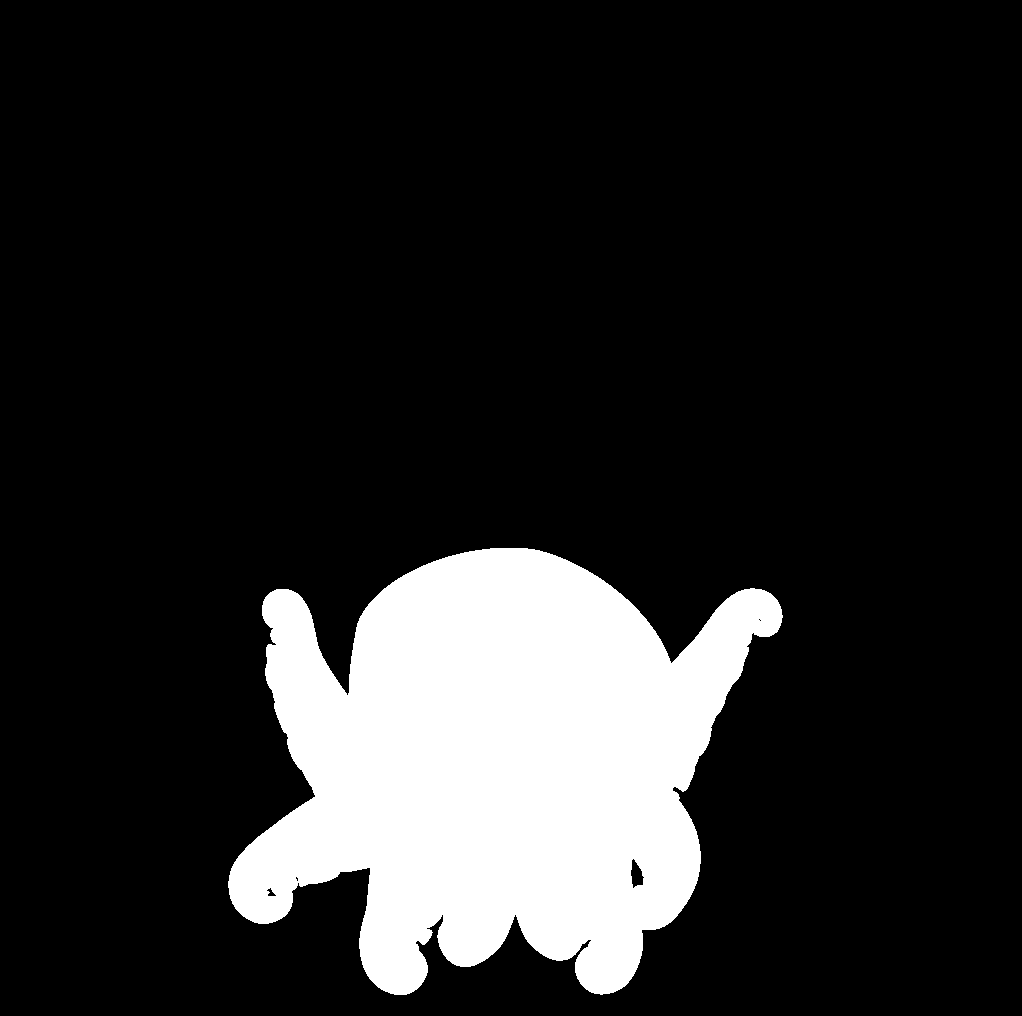
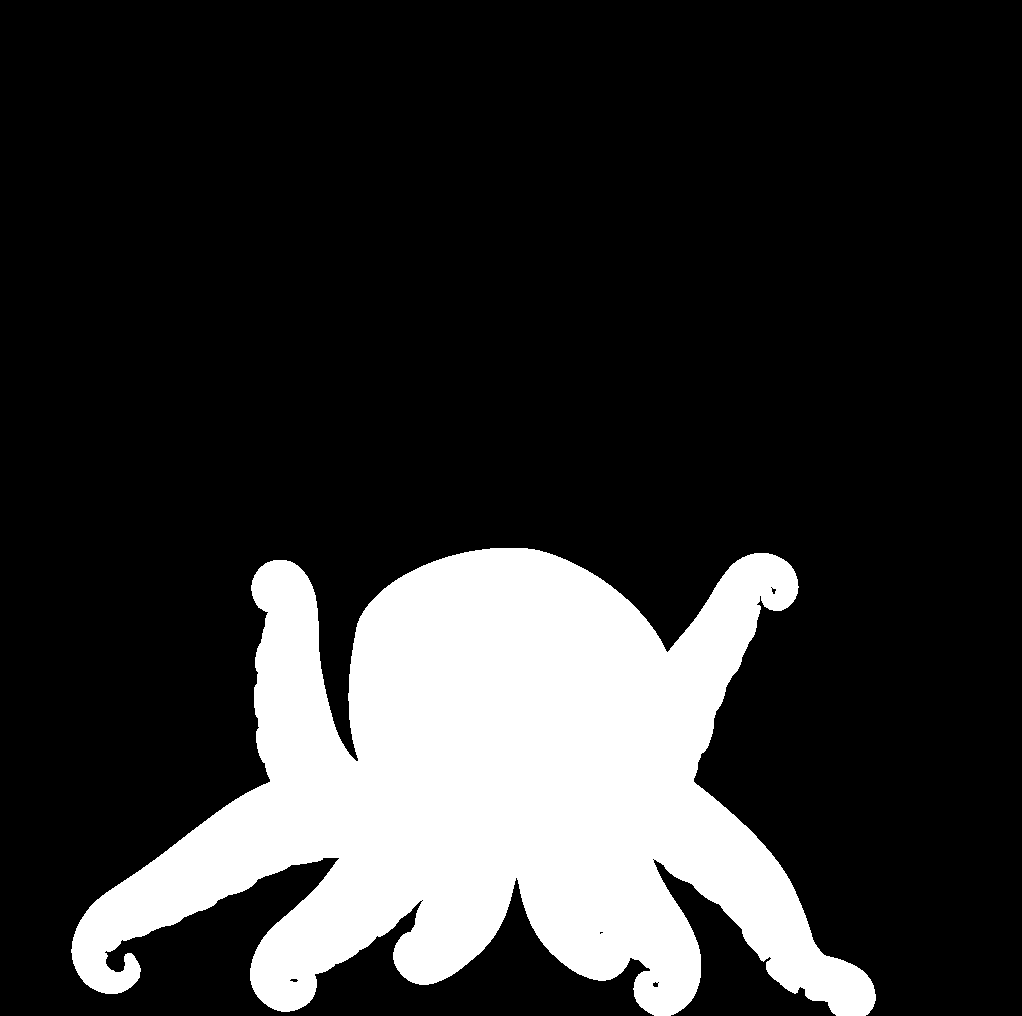
fix(octoverse): overview arms spread like P3
Re-trace the How It Works arms: the lower six fan out as P3's do
(span 4.02, T2 under Aether, T7 under the gold card's bottom edge),
and T1/T8 rise over a unit and curl outward. The presenting face is
the open smile (mouthOpen 0.85, mouthCurve 0.9). Intro untouched.

Changed region(s): [[0.0607, 0.5492, 0.8796, 1.0], [0.637, 0.5187, 0.7886, 0.6713], [0.6977, 0.6407, 0.728, 0.7018]]

diff --git a/src/worlds/octoverse/poses.ts b/src/worlds/octoverse/poses.ts
@@ -100,25 +100,28 @@ const OVERVIEW_TILT = -0.19;
  * Each arm's centre line as the stage camera sees it, in stage units, from where it leaves the body
  * to its tip (the hidden root is the intro's, so nothing moves under the mantle as the stage changes).
  * As painted:
- * - T1, T8: rise from behind the head, outward beside it, between the cards: T1 under Veyra and
- *   right of Aether, T8 under Nox and above "Your Octopus", their tips curling up near y -0.5
- *   (spec 2.2). T8's curl is lifted a little above P3's (which sits on the gold card's corner) and
- *   T1's held 0.1 in from P3's, so no tip lies on a card (the cards are drawn over the stage).
- * - T2: out low to the left, under Aether, curling down at x -1.25.
- * - T3, T4 / T5, T6: hang down the front in two pairs, curling toward each other near the floor.
- * - T7: down beside the gold card's left edge, curling under at y -2.0 (P3 runs it behind the card).
+ * - T1, T8: leave the body low and wide, then rise outward beside the head, between the cards: T1
+ *   under Veyra and right of Aether, T8 under Nox and above "Your Octopus". Each rises more than a
+ *   unit and curls outward at the top, near y -0.4 (spec 2.2: "near y -0.5"). T8's curl sits above
+ *   P3's (which is on the gold card's corner) and T1's stays right of Aether's edge, so no tip lies
+ *   on a card (the cards are drawn over the stage).
+ * - The lower six fan out wide under the face and the cards (fix round 1, the controller's look
+ *   check: P3's lower arms fill the panel's lower half; tucked under the head they read small):
+ *   T2 sweeps out left under Aether's card to x -2.1, curling at the floor; T3 down-left to x -1.2;
+ *   T4 and T5 down the front, curling outward; T6 down-right to x 0.8; T7 out right, under the gold
+ *   card (hidden behind it as P3's is) and along its bottom edge, curling at x 1.7 below it.
  * Every tip curls the way it does in the intro (left side counter-clockwise for T1 to T3, the centre
  * pair inward, the right side mirrored), so the blend from the intro never turns one inside out.
  */
 export const OVERVIEW_TRACED: Record<ArmId, Point2[]> = {
-  T1: [[-0.62, -1.4], [-0.78, -1.31], [-0.9, -1.18], [-0.98, -1.03], [-1.03, -0.88], [-1.06, -0.74], [-1.07, -0.63], [-1.08, -0.55], [-1.11, -0.49], [-1.16, -0.48], [-1.19, -0.53], [-1.17, -0.58], [-1.13, -0.57]],
-  T2: [[-0.5, -1.5], [-0.7, -1.56], [-0.9, -1.63], [-1.08, -1.69], [-1.22, -1.76], [-1.3, -1.85], [-1.3, -1.94], [-1.24, -2.0], [-1.16, -1.99], [-1.13, -1.93], [-1.17, -1.9]],
-  T3: [[-0.4, -1.62], [-0.5, -1.82], [-0.58, -2.02], [-0.63, -2.18], [-0.61, -2.3], [-0.54, -2.35], [-0.48, -2.31], [-0.49, -2.25], [-0.53, -2.26]],
-  T4: [[-0.14, -1.62], [-0.16, -1.8], [-0.16, -1.98], [-0.17, -2.12], [-0.23, -2.18], [-0.28, -2.13], [-0.26, -2.07], [-0.22, -2.09]],
-  T5: [[0.18, -1.62], [0.19, -1.8], [0.19, -1.98], [0.2, -2.12], [0.26, -2.18], [0.31, -2.13], [0.29, -2.07], [0.25, -2.09]],
-  T6: [[0.38, -1.62], [0.45, -1.85], [0.5, -2.05], [0.53, -2.2], [0.5, -2.32], [0.43, -2.35], [0.38, -2.3], [0.4, -2.24], [0.45, -2.25]],
-  T7: [[0.55, -1.42], [0.67, -1.52], [0.75, -1.65], [0.78, -1.8], [0.76, -1.93], [0.71, -2.02], [0.64, -2.04], [0.61, -1.98], [0.64, -1.93], [0.69, -1.95]],
-  T8: [[0.6, -1.38], [0.72, -1.24], [0.82, -1.1], [0.9, -0.97], [0.97, -0.85], [1.03, -0.74], [1.08, -0.63], [1.13, -0.54], [1.2, -0.48], [1.27, -0.48], [1.31, -0.53], [1.3, -0.59], [1.25, -0.6], [1.22, -0.56]],
+  T1: [[-0.55, -1.5], [-0.78, -1.48], [-0.95, -1.38], [-1.06, -1.22], [-1.1, -1.05], [-1.1, -0.88], [-1.08, -0.72], [-1.06, -0.58], [-1.07, -0.45], [-1.12, -0.37], [-1.19, -0.37], [-1.23, -0.43], [-1.21, -0.5], [-1.16, -0.5], [-1.15, -0.45]],
+  T2: [[-0.55, -1.45], [-0.82, -1.5], [-1.1, -1.58], [-1.38, -1.7], [-1.65, -1.82], [-1.88, -1.95], [-2.05, -2.08], [-2.12, -2.22], [-2.08, -2.34], [-1.98, -2.38], [-1.9, -2.33], [-1.92, -2.26]],
+  T3: [[-0.42, -1.6], [-0.6, -1.78], [-0.8, -1.95], [-1.0, -2.1], [-1.15, -2.24], [-1.2, -2.36], [-1.14, -2.44], [-1.05, -2.43], [-1.02, -2.36], [-1.07, -2.33]],
+  T4: [[-0.15, -1.62], [-0.19, -1.82], [-0.24, -2.0], [-0.3, -2.14], [-0.37, -2.24], [-0.45, -2.28], [-0.51, -2.24], [-0.5, -2.17], [-0.45, -2.16]],
+  T5: [[0.18, -1.62], [0.22, -1.82], [0.27, -2.0], [0.33, -2.14], [0.4, -2.24], [0.48, -2.28], [0.54, -2.24], [0.53, -2.17], [0.48, -2.16]],
+  T6: [[0.42, -1.62], [0.55, -1.8], [0.67, -1.98], [0.77, -2.14], [0.83, -2.28], [0.83, -2.4], [0.76, -2.47], [0.68, -2.44], [0.67, -2.37], [0.72, -2.35]],
+  T7: [[0.6, -1.42], [0.85, -1.52], [1.05, -1.68], [1.2, -1.88], [1.3, -2.08], [1.39, -2.24], [1.5, -2.32], [1.62, -2.34], [1.71, -2.38], [1.74, -2.45], [1.69, -2.5], [1.62, -2.48], [1.61, -2.42], [1.66, -2.41]],
+  T8: [[0.6, -1.38], [0.72, -1.22], [0.82, -1.06], [0.9, -0.92], [0.98, -0.79], [1.05, -0.66], [1.1, -0.53], [1.14, -0.42], [1.2, -0.33], [1.28, -0.3], [1.36, -0.33], [1.39, -0.4], [1.36, -0.46], [1.3, -0.46], [1.29, -0.41]],
 };
 
 /**

diff --git a/src/worlds/octoverse/poses.test.ts b/src/worlds/octoverse/poses.test.ts
@@ -216,8 +216,14 @@ describe('the overview pose (How It Works, P3)', () => {
     for (const [id, arm] of [['T1', t1], ['T8', t8]] as const) {
       expect(arm.tip[1], id).toBeGreaterThan(-0.75);
       expect(arm.tip[1], id).toBeLessThan(-0.3);
-      expect(arm.top - arm.start[1], `${id} rises`).toBeGreaterThan(0.7);
+      // Long arms, not stubs (fix round 1): each rises more than 1.0 from where it leaves the body.
+      expect(arm.top - arm.start[1], `${id} rises`).toBeGreaterThan(1.0);
     }
+    // Each curls outward at the top: the curl's outermost point lies outside where the arm rises.
+    const seen1 = seenArm(overview, 'T1'), seen8 = seenArm(overview, 'T8');
+    const riseX = (seen: ReturnType<typeof seenArm>) => seen.find(([, y, u]) => u > 0.3 && y > -0.9)![0];
+    expect(Math.min(...seen1.filter(([, , u]) => u > 0.8).map(([x]) => x))).toBeLessThan(riseX(seen1) - 0.08);
+    expect(Math.max(...seen8.filter(([, , u]) => u > 0.8).map(([x]) => x))).toBeGreaterThan(riseX(seen8) + 0.08);
     // Outside the head, under the upper card of each column and above the lower one.
     expect(t1.tip[0]).toBeLessThan(head.left);
     expect(t8.tip[0]).toBeGreaterThan(head.right);
@@ -230,11 +236,17 @@ describe('the overview pose (How It Works, P3)', () => {
     expect(t8.tip[1]).toBeGreaterThan(card('yours').y0);
   });
 
-  test('the lower six spread out below the face, under the cards', () => {
+  test('the lower six spread out wide below the face, flowing out under the cards (fix round 1)', () => {
     const tips = (['T2', 'T3', 'T4', 'T5', 'T6', 'T7'] as const).map(id => seenArm(overview, id).at(-1)!);
     for (const [x, y] of tips) expect(y, `tip at ${x.toFixed(2)}`).toBeLessThan(-1.6);
     const xs = tips.map(([x]) => x);
-    expect(Math.max(...xs) - Math.min(...xs)).toBeGreaterThan(1.6);
+    // The outer pair reach well past the head (half-width 0.81) on both sides, under Aether and the gold card.
+    expect(Math.max(...xs) - Math.min(...xs)).toBeGreaterThan(3.2);
+    expect(Math.min(...xs)).toBeLessThan(-1.7);
+    expect(Math.max(...xs)).toBeGreaterThan(1.5);
+    // The middle pairs fan out too: T3 and T6 reach past the head's sides.
+    expect(xs[1]).toBeLessThan(-0.9);
+    expect(xs[4]).toBeGreaterThan(0.6);
     // Left to right in order, T2 the farthest left.
     for (let k = 1; k < xs.length; k++) expect(xs[k], `T${k + 2}`).toBeGreaterThan(xs[k - 1]);
   });

diff --git a/src/worlds/octoverse/character.ts b/src/worlds/octoverse/character.ts
@@ -232,7 +232,7 @@ export const HOST: CharacterConfig = {
     gentle: WELCOME,
     [HOST_FACES.welcome]: WELCOME,
     // How It Works: the open smile, brows up, eyes a little wider (the look toward the card is attend's).
-    [HOST_FACES.presenting]: { lidRest: -0.08, lidBottom: 0, browLift: 0.5, browTilt: 0.1, mouthCurve: 0.85, mouthOpen: 0.6, blush: 0.45 },
+    [HOST_FACES.presenting]: { lidRest: -0.08, lidBottom: 0, browLift: 0.5, browTilt: 0.1, mouthCurve: 0.9, mouthOpen: 0.85, blush: 0.45 },
     // The arrival beat: eyes squeezed into happy arcs for a moment, the mouth wide.
     [HOST_FACES.delighted]: { lidRest: 0.42, lidBottom: 0.8, browLift: 0.35, browTilt: 0.15, mouthCurve: 1, mouthOpen: 1, blush: 0.75 },
     // The idle layer's soft closed smile, never a rest face.

diff --git a/src/worlds/octoverse/character.test.ts b/src/worlds/octoverse/character.test.ts
@@ -115,6 +115,9 @@ describe('the face', () => {
     const p = faces[HOST_FACES.presenting];
     const w = faces[HOST_FACES.welcome];
     expect(p.mouthOpen).toBeGreaterThan(0.3);
+    // P3's presenting face is a wide open smile, nearly the welcome's (Task 6 fix round 1).
+    expect(p.mouthOpen).toBeGreaterThanOrEqual(0.85);
+    expect(p.mouthCurve).toBeGreaterThanOrEqual(0.9);
     expect(p.browLift).toBeGreaterThan(w.browLift);
     expect(p.lidRest).toBeLessThan(w.lidRest);
   });

diff --git a/docs/superpowers/MORNING-REVIEW-platform.md b/docs/superpowers/MORNING-REVIEW-platform.md
@@ -74,22 +74,26 @@ Stills (`docs/superpowers/evidence/platform/m2/`, frozen, kit and far plate load
 - `task6-swim-sheet.png`: the host's new swim shapes (`?pose=swim-open`, `?pose=swim-trail`, and the trail at `&yaw=90`, the profile P1 shows).
 - `task6-intro.png`: the intro re-captured after the crown change below (P2 regression check).
 
+Fix round 1 (commit `fix(octoverse): overview arms spread like P3`): the overview arms are re-traced, and the presenting mouth is the open smile (mouthOpen 0.6 to 0.85, mouthCurve 0.85 to 0.9). The stills above are re-captured.
+
 Numbers:
-- Overview head on the still (`python scripts/host_panel_check.py p3 <still>`): top -0.20, half-width 0.80, centre x 0.00 (spec -0.24, 0.81, +0.03, each ± 0.05). The head is turned 10.9 degrees: its top leans to the viewer's right, so the eye line falls to the right as P3's does (about 11 degrees).
-- P3 samples: upper head 9.4, face glow 5.7 (both within delta E 10).
+- Overview head on the still (`python scripts/host_panel_check.py p3 <still>`): top -0.20, half-width 0.79, centre x -0.01 (spec -0.24, 0.81, +0.03, each ± 0.05). The head is turned 10.9 degrees: its top leans to the viewer's right, so the eye line falls to the right as P3's does (about 11 degrees).
+- P3 samples: upper head 9.4, face glow 5.8 (both within delta E 10).
+- Arm span on the still: x -2.20 to 1.82 (4.02 stage units). Tips (x, y): T1 (-1.15, -0.45), T2 (-1.92, -2.26), T3 (-1.07, -2.33), T4 (-0.45, -2.16), T5 (0.48, -2.16), T6 (0.72, -2.35), T7 (1.66, -2.41), T8 (1.29, -0.41). T2 fans out under Aether; T7 runs under the gold card's bottom edge and curls below it.
 - P2 after the crown change: still 12 of 17 within 10, the same five misses; crown 3.2 to 5.3, upper head 8.9 to 8.3; crown B - R 140.2 (floor 140); IoU 0.856.
 - Gate in the intro: unchanged (0.230 against the face's 0.712). It cannot leave the intro frame: see the gaps below.
 
 What to check, live at `?world=octoverse&stage=overview`:
 1. Head turned and low: the host sits low and a little smaller, its head leaning right as P3's.
-2. T1 and T8 rising beside the cards: T1 under Veyra's column, T8 under Nox's, curling near y -0.5.
-3. Clear space for five cards: the lower six arms spread under the face, and no arm tip sits on a card box (the overlay still).
-4. Face clear: no card box covers the face.
+2. T1 and T8 rising beside the cards: they leave the body low and wide, rise more than a unit and curl outward near y -0.4.
+3. Clear space for five cards: the lower six arms fan wide under the face (T2 under Aether, T7 under the gold card), and no arm tip sits on a card box (the overlay still).
+4. The presenting face: an open smile, close to the welcome's.
+5. Face clear: no card box covers the face.
 
 Known gaps for the owner to rule on:
 - "Turned 8 to 15 degrees right" is built as a lean of the head about its neck (the eye line's fall in P3). P3 shows no turn about the vertical; if anything its face sits left of the dome's middle. Say if a turn about the vertical was meant.
 - The host's face (P2's layout) sits lower and wider on its dome than P3 paints it. To land P3's face-glow sample on the chin and not the lip, the body sits 0.03 left and 0.04 higher than centred. That leaves the measured top at -0.20, 0.01 inside the tolerance.
 - The crown cap starts higher (crownHeight 0.45 to 0.58): P3's upper dome is violet nearer the top than P2's. P2's crown B - R margin is now 0.2.
-- P3's arms are longer and flow further out than these. The host's head is larger relative to its arms than P3 paints it.
+- The arms now spread as wide as P3's (span 4.02). The host's head is still larger relative to its arms than P3 paints it: the arm length is the config's, unchanged here.
 - The gate stands fully visible behind the Nox and gold cards in How It Works (P3 shows no gate). In the intro it stays soft beside the host: the engine's stage frame is a size only, centred on the stage, so it cannot move the view off the gate (E02b or owner: a frame offset, or a per-stage layout).
 - P1's head position at 3 s (spec 2.2: -0.36, -0.36, profile right) belongs to the entrance sheet (Task 12). Today the head sits at the intro spot (about 0, -0.2).

diff --git a/docs/superpowers/reviews/platform.md b/docs/superpowers/reviews/platform.md
@@ -235,3 +235,11 @@ Verdict: provisional, pending owner.
 2. P1's head place and profile belong to the entrance sheet (Task 12). The entering pose is P1's arm shapes only, as Nox's is.
 3. The face sits lower on the dome than P3 paints it, so the body is offset within tolerance to keep the face-glow sample on the chin.
 4. The crown change trades P2 crown margin for P3's upper head.
+
+### Fix round 1: overview arms spread like P3 (2026-11-05)
+
+- The overview arms are re-traced. The lower six fan out (T2 to x -2.1 under Aether, T7 under the gold card's bottom edge). T1 and T8 leave the body low and wide, rise more than a unit and curl outward near y -0.4.
+- The presenting face is the open smile: mouthOpen 0.6 to 0.85, mouthCurve 0.85 to 0.9.
+- Still: arm span x -2.20 to 1.82 (4.02); head top -0.20, half-width 0.79, centre -0.01; P3 upper head 9.4, face glow 5.8.
+- Intro untouched: 12 of 17, IoU 0.856, crown B - R 140.2.
+- Gap 4 of the craft list (arms short, lower arms bunched, small mouth) is closed for the spread and the mouth. The head is still large relative to the arms: arm length is the config's.
